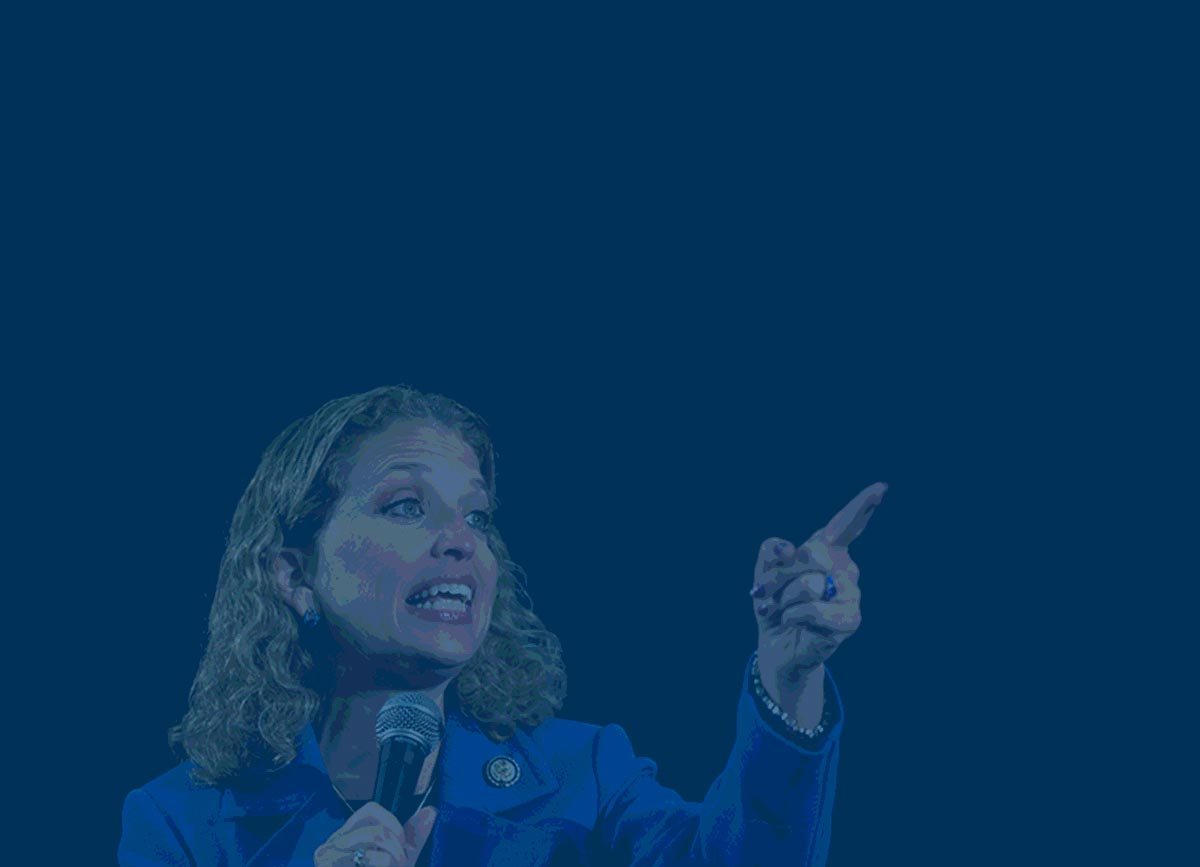
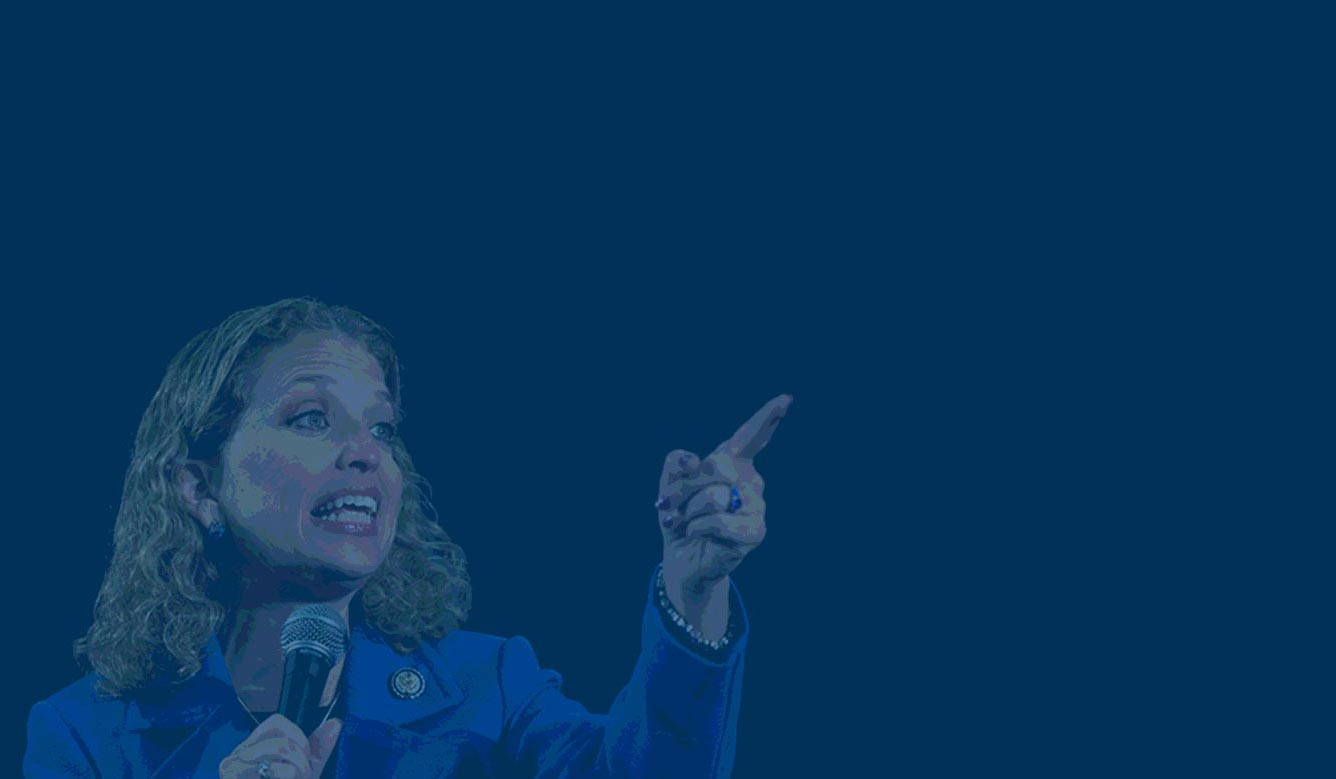
Front Page Edits

Changed region(s): [[0.0, 0.3697, 0.74, 1.0]]

diff --git a/_includes/jumbotrons/20160203_web_refresh.html b/_includes/jumbotrons/20160203_web_refresh.html
@@ -8,6 +8,14 @@
   position: relative;
 }
 
+.jumbotron h1 {
+	font-size:50px;
+}
+
+.jumbotron h2 {
+	font-size:35px;
+}
+
 .jumbotron .panel {
 	padding: 0 20px 10px;
 }
@@ -43,7 +51,7 @@
 }
 
 @media (min-width: 768px){
-  /* .jumbotron{padding-top:180px;} */
+  .jumbotron{padding-top:80px;}
 }
 
 @media (max-width: 767px){
@@ -54,21 +62,35 @@
     background-image:none;
     padding-bottom:10px;
   }
+  
+  .jumbotron h1 {
+	  line-height:1;
+	  font-size:40px;
+  }
+  
+  .jumbotron h2 {
+  	font-size:30px;
+	line-height:1;
+  }
+  
+  .jumbotron p.as-if-h5 {
+  	font-size:18px
+  }
+  
 }
 @media (max-width: 420px){
 }
 </style>
     
-    	<div class="jumbotron item active" style="padding:;background-image:url('/images/campaigns/candidates/shultz.jpg');background-position:bottom center;">
+    	<div class="jumbotron" style="background-image:url('/images/campaigns/candidates/shultz.jpg');background-position:bottom center;">
           <div class="container">
             <div class="row">
-              <div class="col-md-12 text-center margin-top-md margin-bottom-lg">
-                <h1><span class="text-yellow">We're Ending Big Money in Politics</span></h1>
-                <h2 class="text-grey-light">Help us defeat Debbie Wasserman Schultz</h2>
+              <div class="col-md-12 margin-top-md margin-bottom-lg">
+                <h1 class="text-center"><span class="text-yellow">We're Ending Big Money in Politics</span></h1>
+                <h2 class="text-center text-grey-light">Help us defeat Debbie Wasserman Schultz</h2>
                <div class="col-sm-10 col-md-7 center-block">
-                    <p class="as-if-h5"><strong>Instead of fighting corruption, the head of the Democratic Party has only enabled lobbyists and big money.</strong></p>
-                    <p class="as-if-h5"><strong>Debbie Wasserman Schultz is part of the problem. Defeating her is part of the solution, but we need your help.</strong></p>
-                    <div class="col-xs-8 center-block margin-bottom-md margin-top-md">
+                    <p class="as-if-h5"><strong>Debbie has only enabled lobbyists and big money while running the Democratic Party. She is part of the problem. Defeating her is part of the solution, but we need your help.</strong></p>
+                    <div class="col-xs-6 center-block margin-bottom-md margin-top-md">
                         <a href="http://act.mayday.us/schultz" class="btn-mayday btn">Help Us</a>
                     </div>
                 </div>
